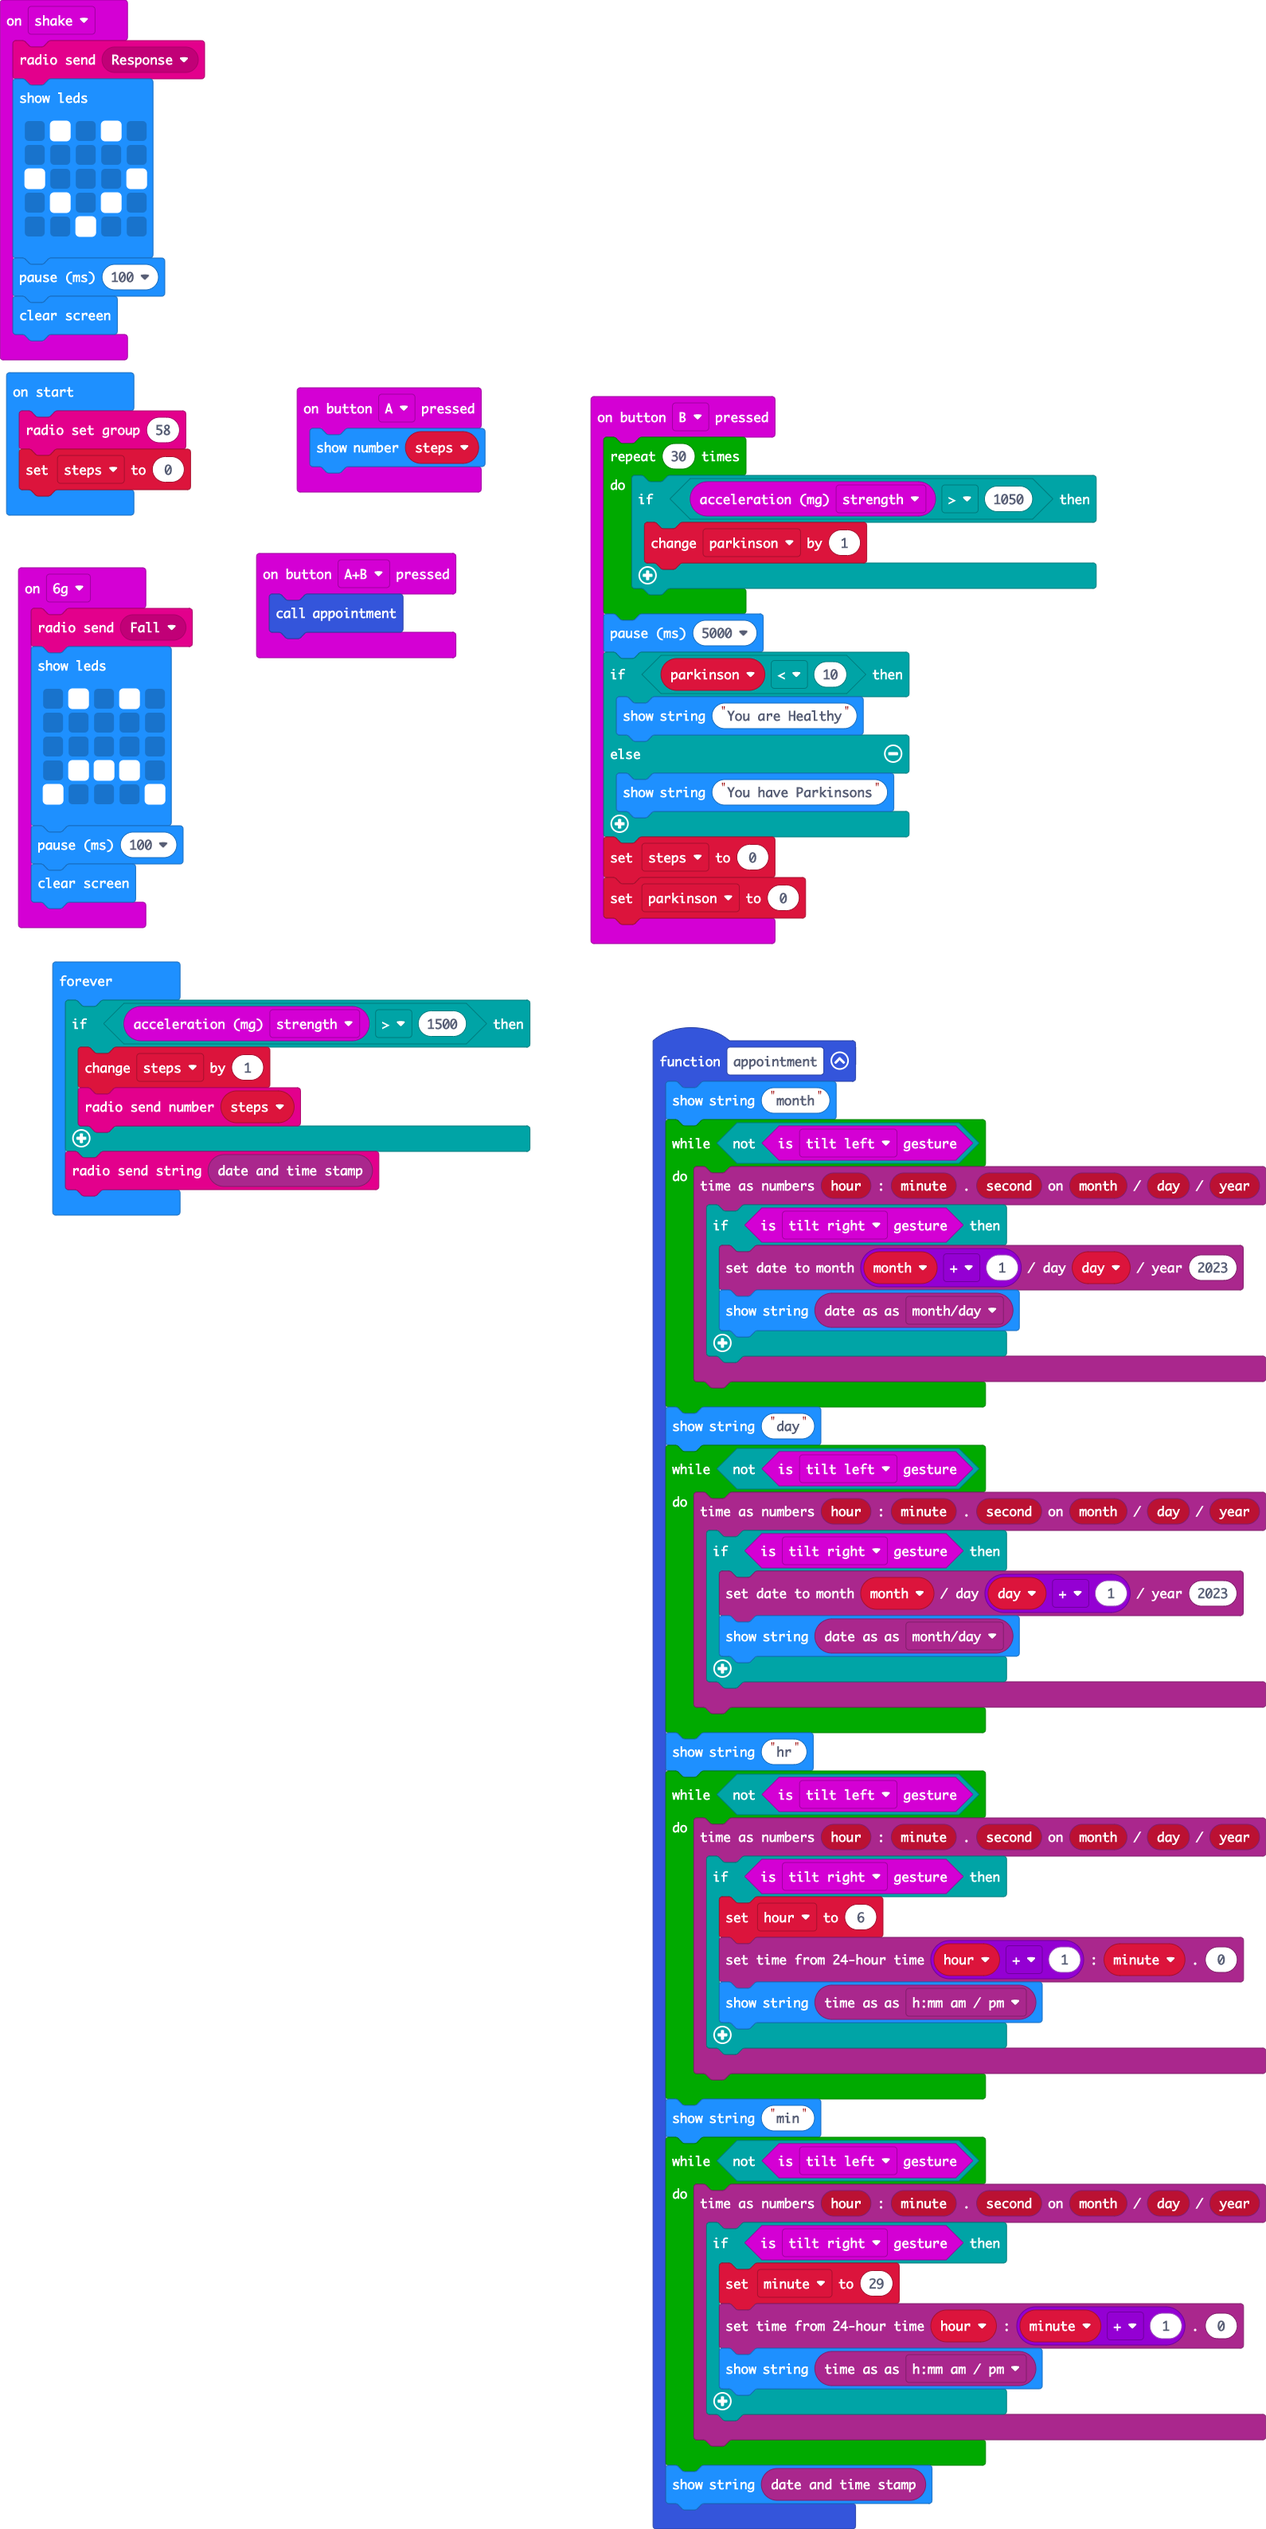
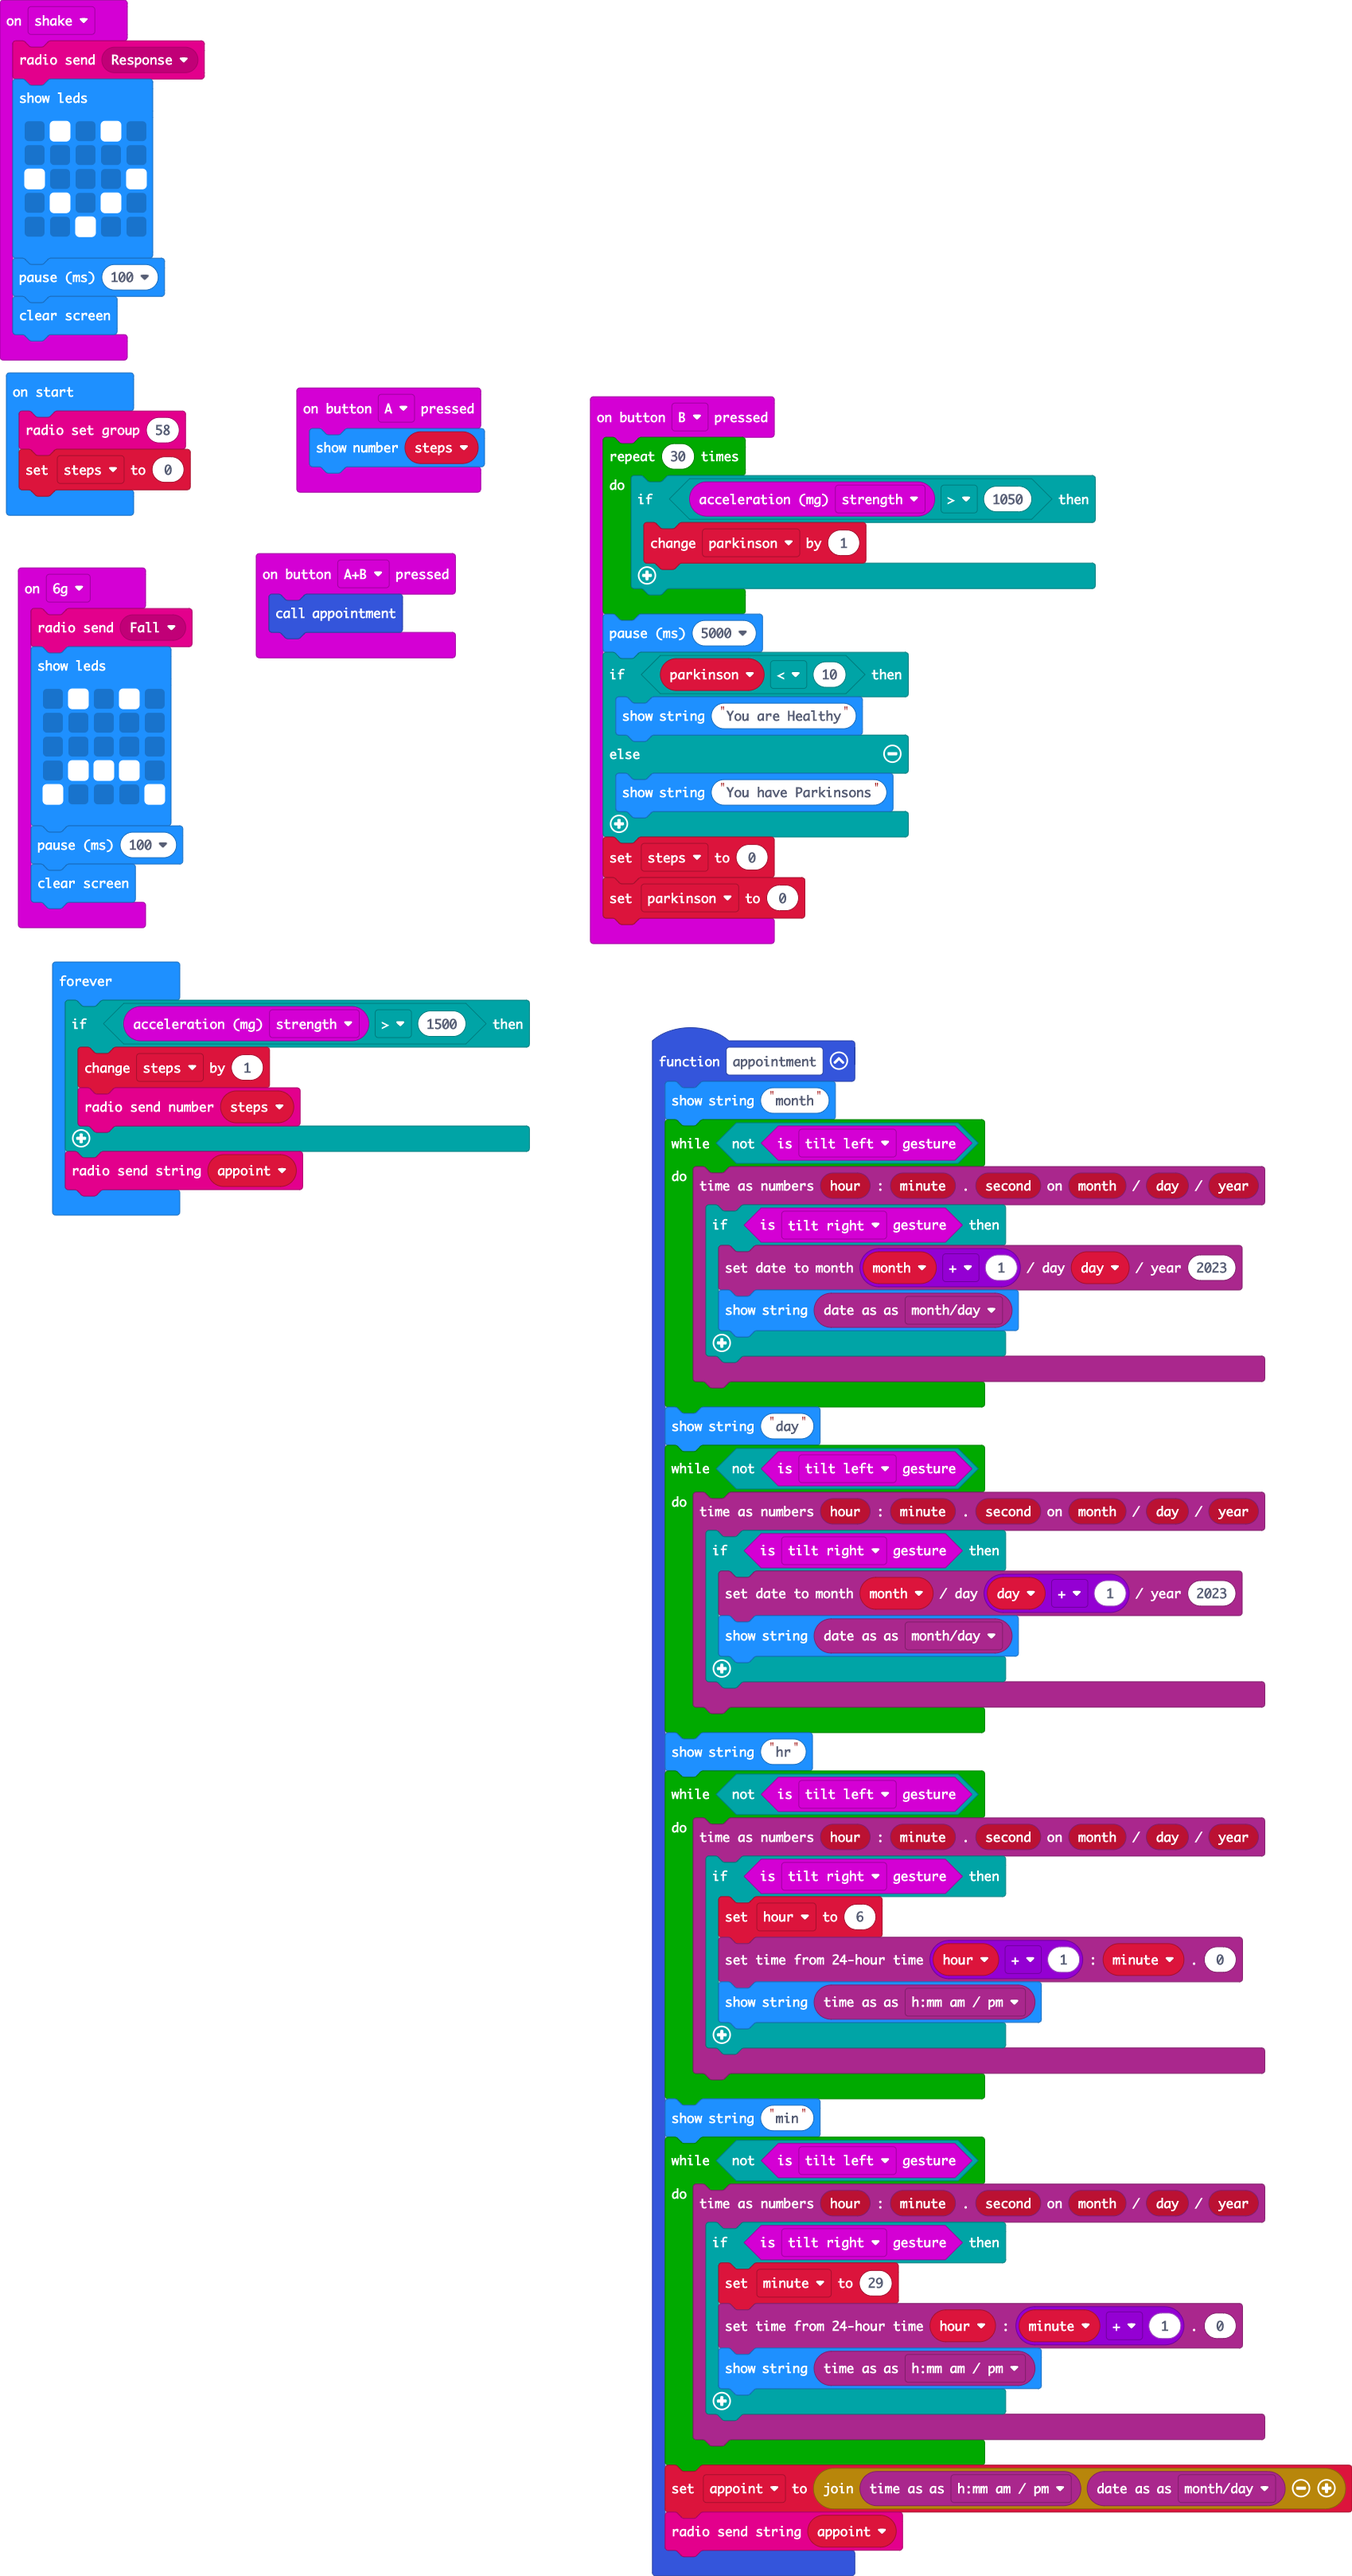
Update smartwatch

diff --git a/main.ts b/main.ts
@@ -87,8 +87,10 @@ function appointment () {
             }
         })
     }
-    basic.showString(timeanddate.dateTime())
+    appoint = "" + timeanddate.time(timeanddate.TimeFormat.HMMAMPM) + timeanddate.date(timeanddate.DateFormat.MD)
+    radio.sendString(appoint)
 }
+let appoint = ""
 let parkinson = 0
 let steps = 0
 radio.setGroup(58)
@@ -98,5 +100,5 @@ basic.forever(function () {
         steps += 1
         radio.sendNumber(steps)
     }
-    radio.sendString(timeanddate.dateTime())
+    radio.sendString(appoint)
 })
